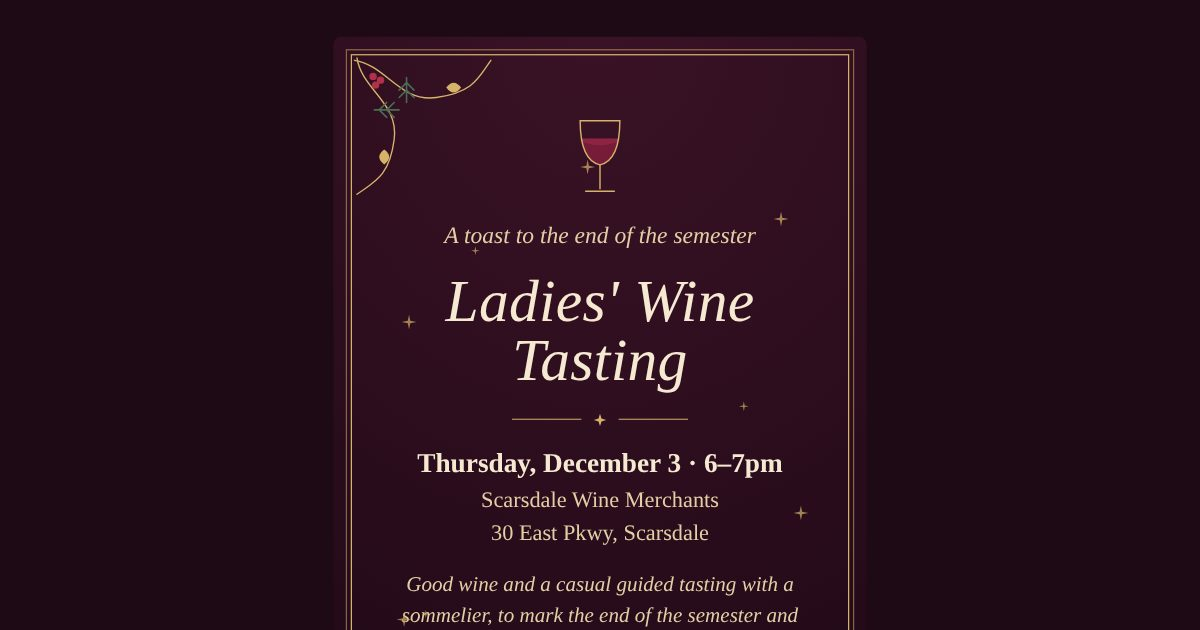
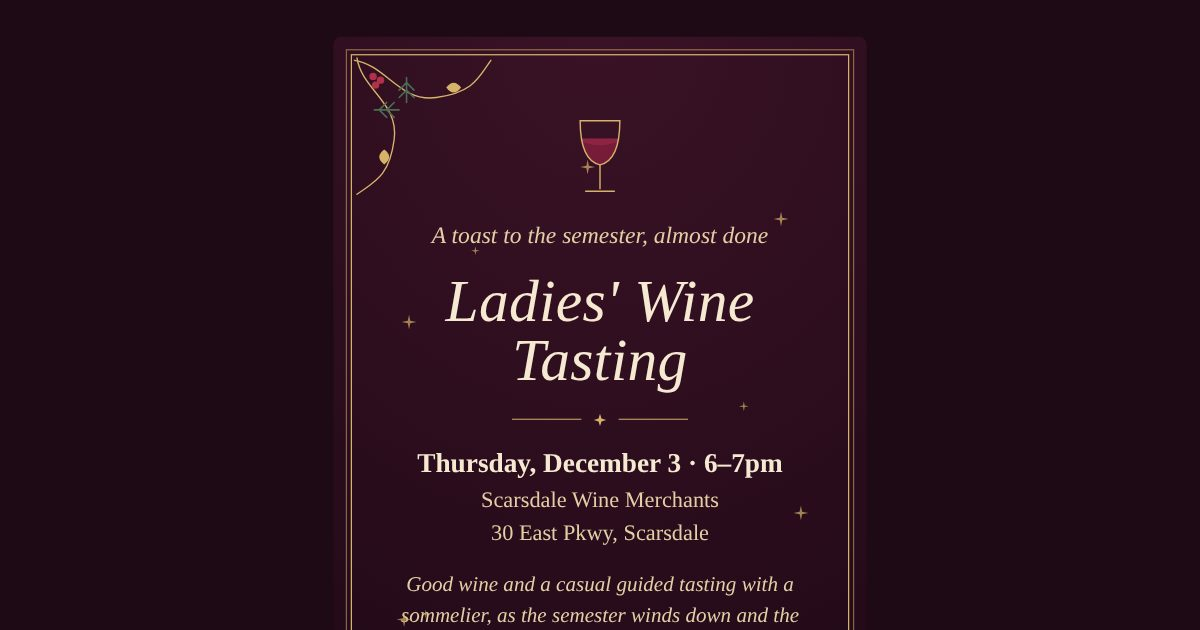
Semester winding down; dinner at Chat
Claude-Session: https://claude.ai/code/session_01PZx2BRDJ8sGYgqT4Z9tZKF

Changed region(s): [[0.3392, 0.9651, 0.6783, 0.9952], [0.3392, 0.3619, 0.6475, 0.3921]]

diff --git a/wine-tasting/index.html b/wine-tasting/index.html
@@ -4,7 +4,7 @@
 <meta charset="utf-8">
 <meta name="viewport" content="width=device-width,initial-scale=1,viewport-fit=cover">
 <meta name="theme-color" content="#1E0A15">
-<meta name="description" content="A toast to the end of the semester, with a sommelier at Scarsdale Wine Merchants. Thursday, December 3 · 6–7pm. Tap to RSVP.">
+<meta name="description" content="A toast to the semester, almost done, with a sommelier at Scarsdale Wine Merchants. Thursday, December 3 · 6–7pm. Tap to RSVP.">
 <meta property="og:type" content="website">
 <meta property="og:site_name" content="Invitations">
 <meta property="og:image" content="https://1294962213sh.github.io/wine-tasting/preview.jpg">
@@ -15,7 +15,7 @@
 <style>:root{padding-top:env(safe-area-inset-top,0px);padding-bottom:env(safe-area-inset-bottom,0px)}body{margin:0}img{max-width:100%}[hidden]{display:none!important}</style>
 <title>Ladies' Wine Tasting</title>
 <meta property="og:title" content="Ladies' Wine Tasting · Dec 3">
-<meta property="og:description" content="A toast to the end of the semester, with a sommelier at Scarsdale Wine Merchants. Thursday, December 3 · 6–7pm. Tap to RSVP.">
+<meta property="og:description" content="A toast to the semester, almost done, with a sommelier at Scarsdale Wine Merchants. Thursday, December 3 · 6–7pm. Tap to RSVP.">
 <link rel="stylesheet" href="https://fonts.googleapis.com/css2?family=Cormorant+Garamond:ital,wght@0,400;0,500;0,600;1,400;1,500&family=Jost:wght@400;500&display=swap">
 <style>
   /* Layout: one invitation card on a midnight-plum ground; RSVP below on champagne paper. Single committed look (dark). */
@@ -235,12 +235,12 @@
       </svg>
 
       <p class="eyebrow" id="eyebrow" hidden></p>
-      <p class="sub" id="sub">A toast to the end of the semester</p>
+      <p class="sub" id="sub">A toast to the semester, almost done</p>
       <h1 id="title">Ladies' Wine Tasting</h1>
       <div class="orn" aria-hidden="true"><svg viewBox="0 0 10 10"><path d="M5 0 L6.2 3.8 L10 5 L6.2 6.2 L5 10 L3.8 6.2 L0 5 L3.8 3.8 Z" fill="currentColor"/></svg></div>
       <p class="when" id="when">Thursday, December 3 · 6–7pm</p>
       <p class="where" id="where">Scarsdale Wine Merchants<br>30 East Pkwy, Scarsdale</p>
-      <p class="note" id="note">Good wine and a casual guided tasting with a sommelier, to mark the end of the semester and the start of the holidays. About $50 each. Dinner after in Scarsdale village for anyone who can stay, bill split.</p>
+      <p class="note" id="note">Good wine and a casual guided tasting with a sommelier, as the semester winds down and the holidays begin. About $50 each. Dinner after at Chat in Scarsdale village for anyone who can stay, bill split.</p>
 
       <div class="actions">
         <div class="lbl">Add to calendar</div>
@@ -308,14 +308,14 @@ const EVENT = {
   title: "Ladies' Wine Tasting",
   subtitle: "",                       // small caps line under the title; empty hides it
   eyebrow: "",                        // small caps line above the subtitle; empty hides it
-  sub: "A toast to the end of the semester",
+  sub: "A toast to the semester, almost done",
   start: "2026-12-03T18:00:00",      // local time
   end:   "2026-12-03T19:00:00",
   tz:    "America/New_York",
   dateLabel: "Thursday, December 3 · 6–7pm",
   address: "Scarsdale Wine Merchants, 30 East Pkwy, Scarsdale, NY 10583",
   addressDisplay: "Scarsdale Wine Merchants<br>30 East Pkwy, Scarsdale",   // how it reads on the card; the full address above feeds Maps and calendars
-  details: "Good wine and a casual guided tasting with a sommelier, to mark the end of the semester and the start of the holidays. About $50 each. Dinner after in Scarsdale village for anyone who can stay, bill split.",
+  details: "Good wine and a casual guided tasting with a sommelier, as the semester winds down and the holidays begin. About $50 each. Dinner after at Chat in Scarsdale village for anyone who can stay, bill split.",
   // Google Form connection — where RSVPs are stored
   form: {
     action: "https://docs.google.com/forms/d/e/1FAIpQLScCiUJMqiOSVvGrGlnZwE9t_7RkEplYKUHguzSnAe4gRlh26w/formResponse",
@@ -348,7 +348,7 @@ $("cal-google").href = "https://calendar.google.com/calendar/render?action=TEMPL
   + "&dates=" + stamp(EVENT.start) + "/" + stamp(EVENT.end)
   + "&ctz=" + encodeURIComponent(EVENT.tz)
   + (EVENT.address ? "&location=" + encodeURIComponent(EVENT.address) : "")
-  + "&details=" + encodeURIComponent(EVENT.sub + ". Wine, conversation and a sommelier to guide us. Optional dinner after.");
+  + "&details=" + encodeURIComponent(EVENT.details.replace(/<br>/g, " "));
 
 function showThanks(name, att, din, returning) {
   const first = name.split(" ")[0];
